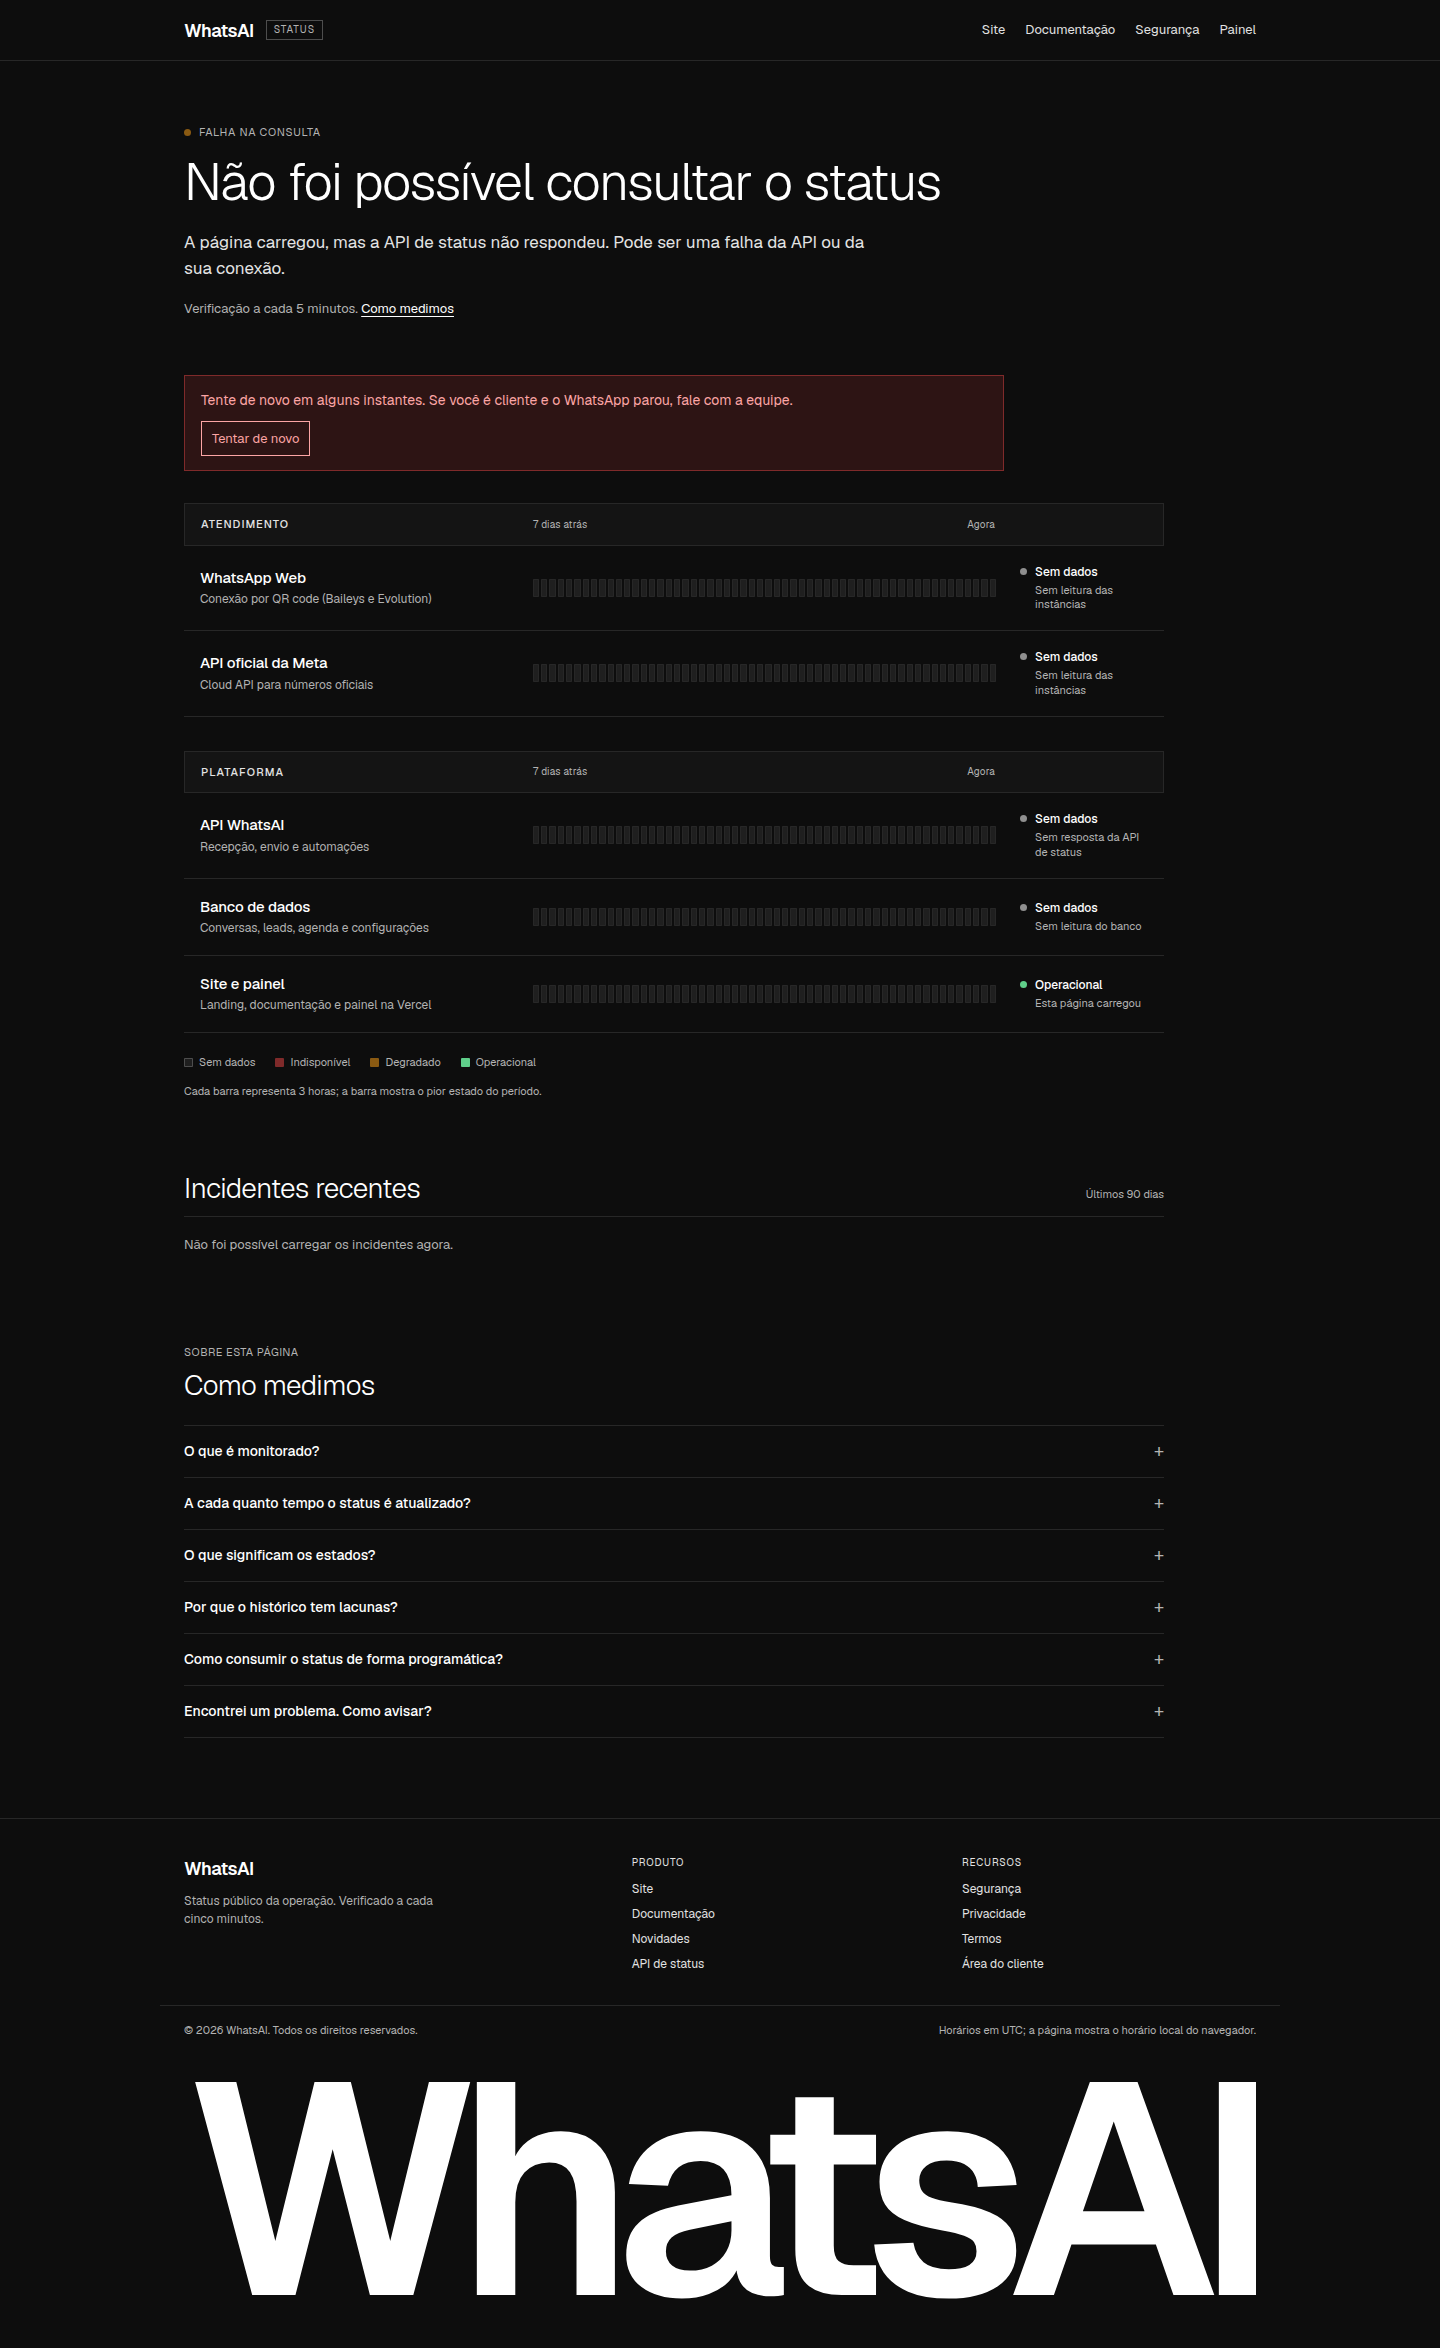
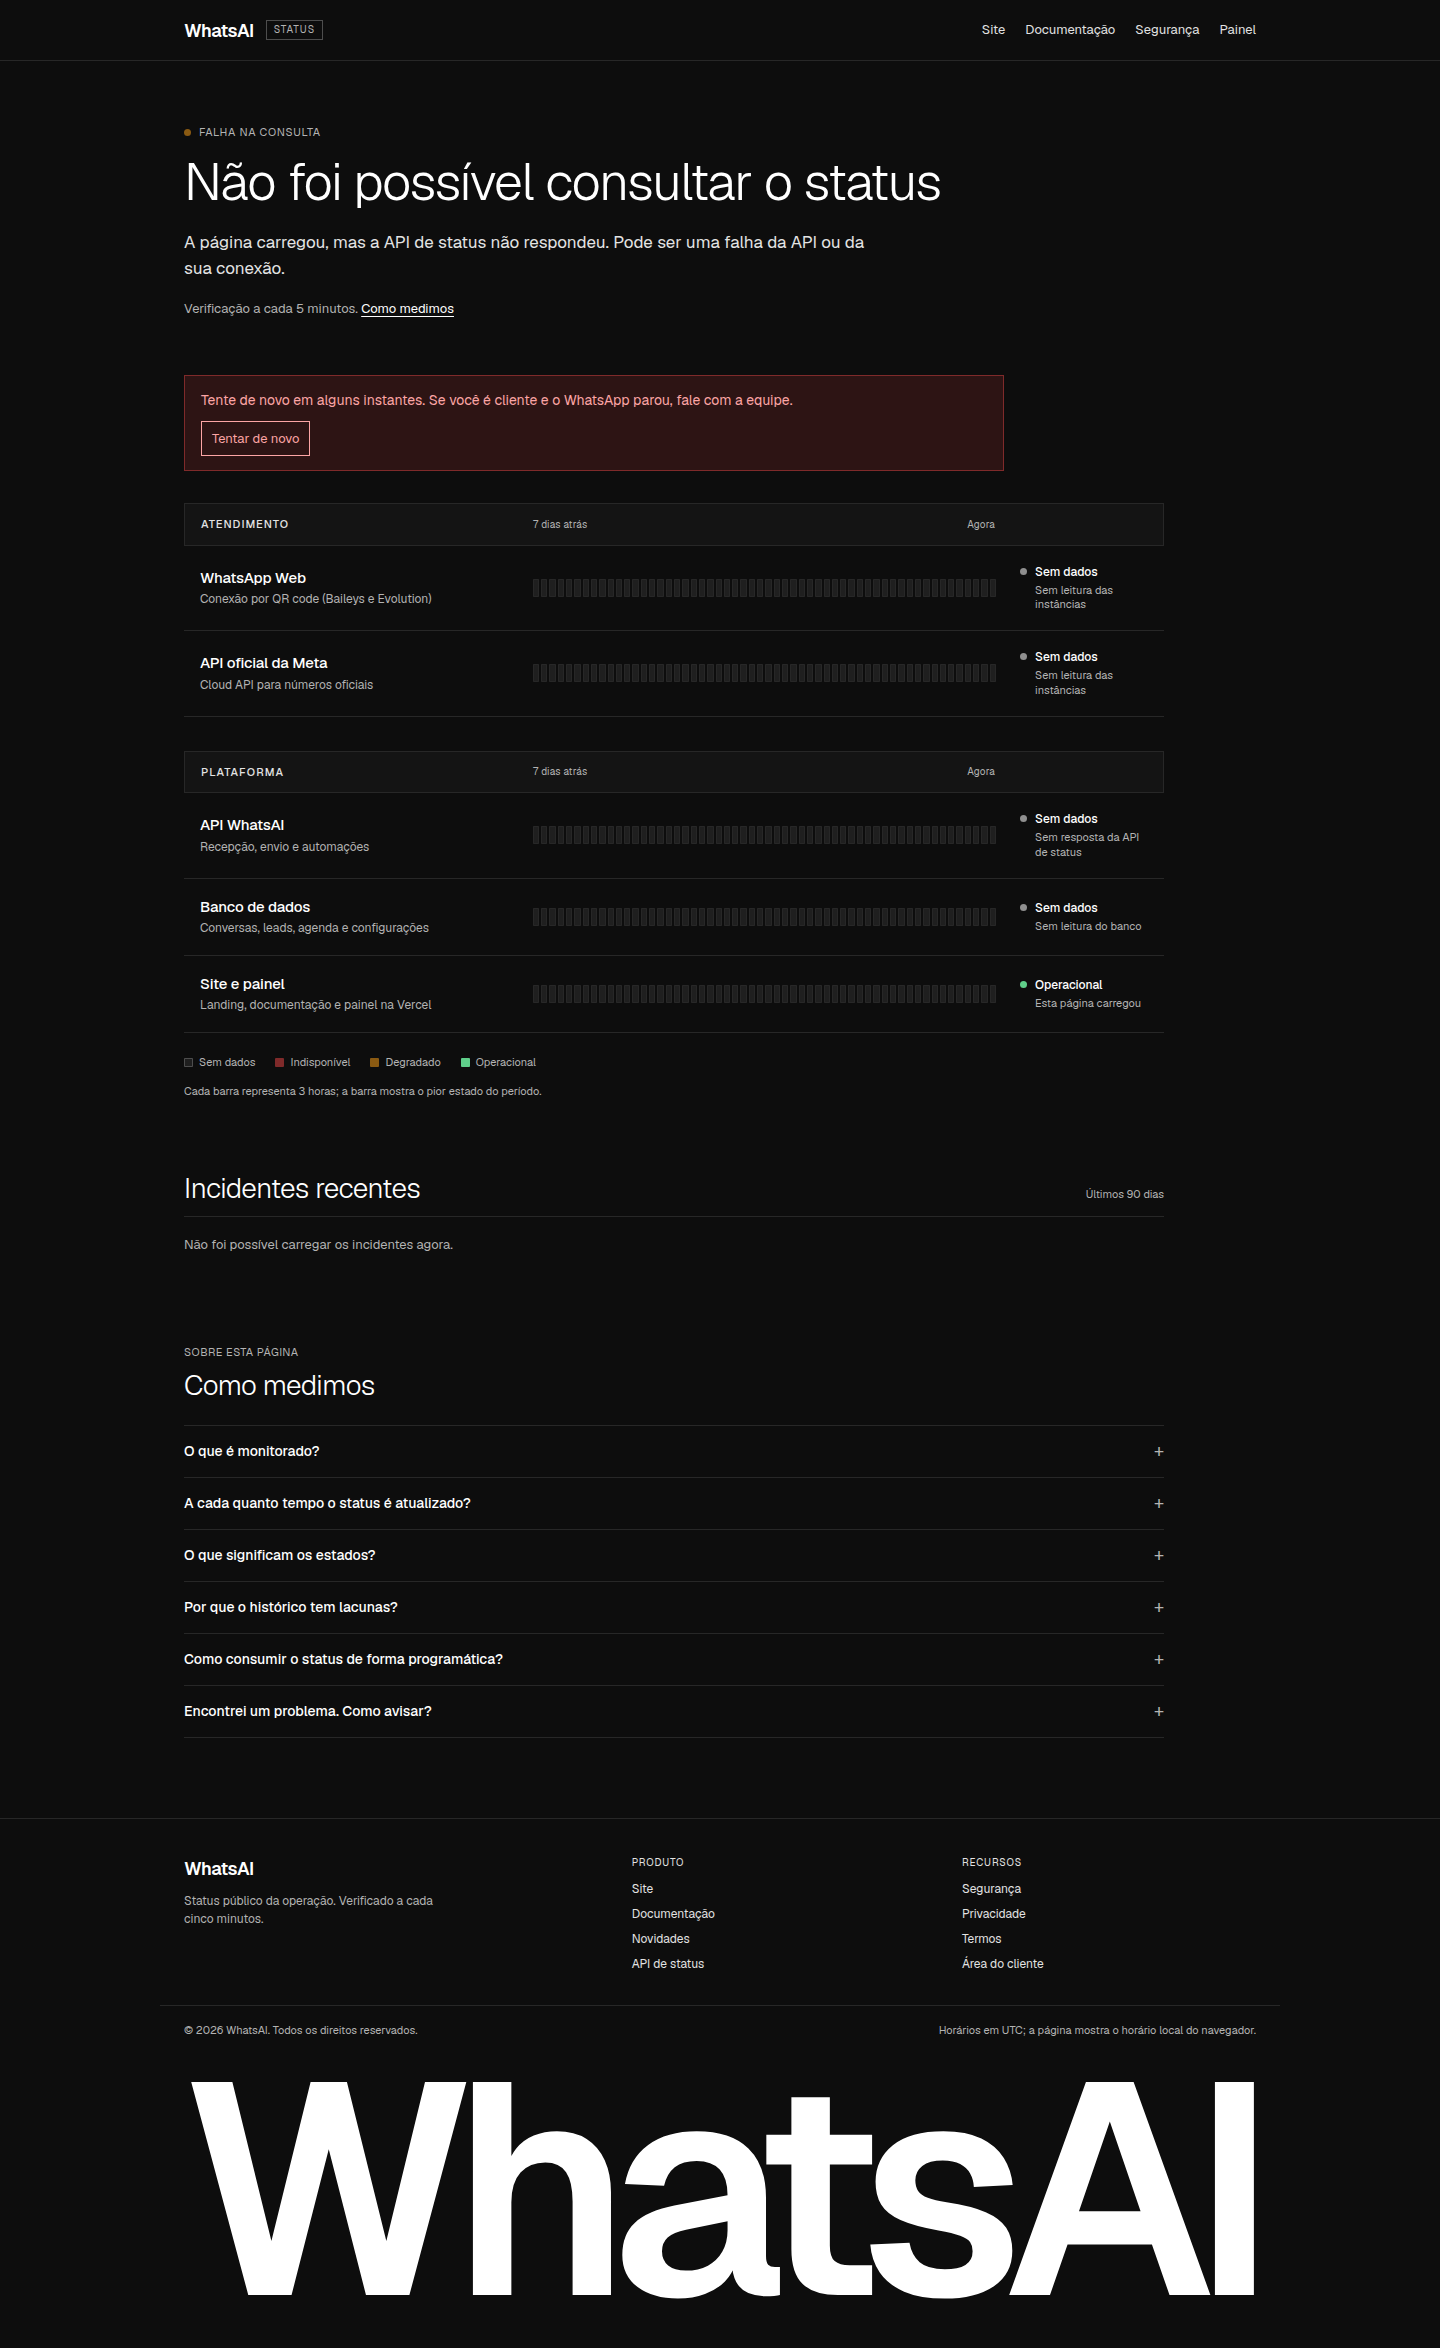
fix(status): alinha o wordmark ao rodape global
O titulo usa a mesma largura e o mesmo respiro do rodape da landing, Seguranca, Privacidade e Termos em 390 e 1440 px. Capturas atualizadas.

diff --git a/manager/dist/status/index.html b/manager/dist/status/index.html
@@ -21,7 +21,7 @@
     <link rel="preload" href="/assets/fonts/geist-latin-wght-normal.woff2?v=1" as="font" type="font/woff2" crossorigin />
     <link rel="stylesheet" href="/assets/geist.css?v=3" />
     <link rel="stylesheet" href="/assets/tokens.css?v=3" />
-    <link rel="stylesheet" href="/status/status.css?v=2" />
+    <link rel="stylesheet" href="/status/status.css?v=3" />
   </head>
   <body class="st-page">
     <a class="st-skip" href="#conteudo">Pular para o conteúdo</a>
@@ -164,7 +164,7 @@
         <p>© 2026 WhatsAI. Todos os direitos reservados.</p>
         <p>Horários em UTC; a página mostra o horário local do navegador.</p>
       </div>
-      <div class="st-wrap">
+      <div class="st-foot-wordmark-wrap">
         <a class="st-foot-wordmark" href="/" aria-label="WhatsAI, página inicial">WhatsAI</a>
       </div>
     </footer>

diff --git a/manager/dist/status/status.css b/manager/dist/status/status.css
@@ -639,6 +639,19 @@ body.st-page {
   margin: 0;
 }
 
+.st-foot-wordmark-wrap {
+  width: 100%;
+  max-width: 1440px;
+  margin: 0 auto;
+  padding-inline: 20px;
+}
+
+@media (min-width: 1200px) {
+  .st-foot-wordmark-wrap {
+    padding-inline: 70px;
+  }
+}
+
 .st-foot-wordmark {
   display: block;
   width: 100%;
